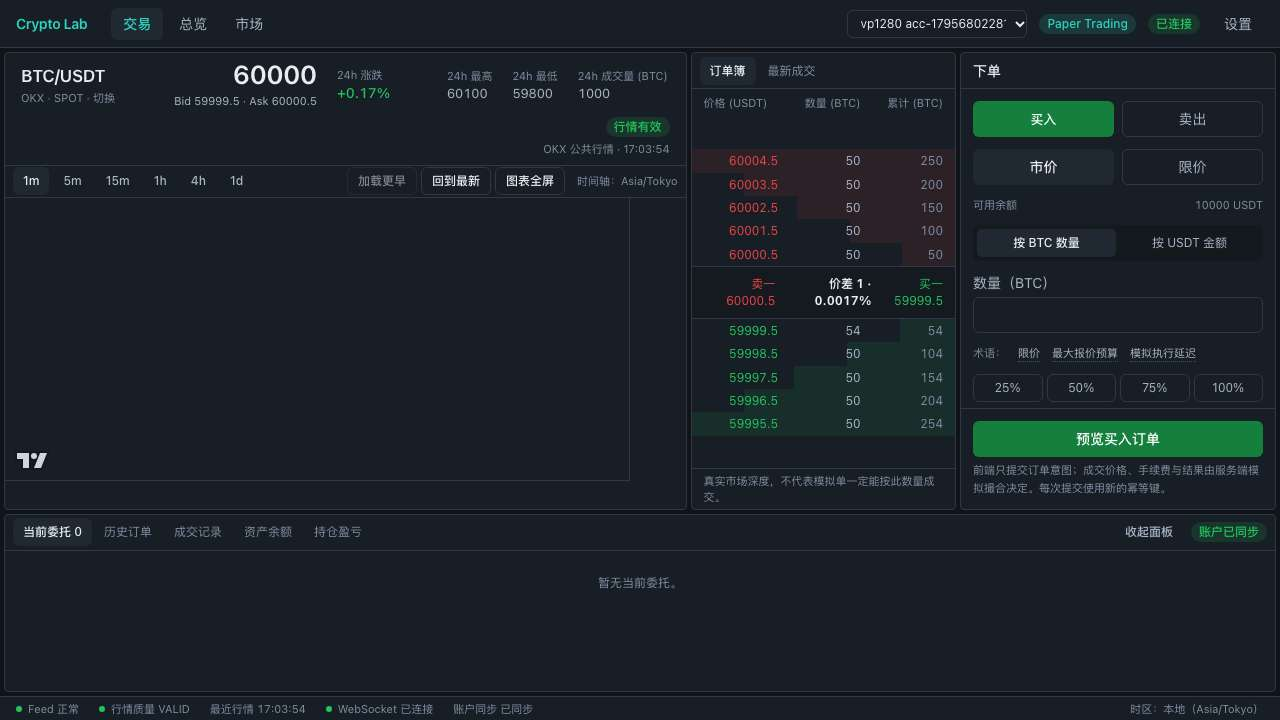
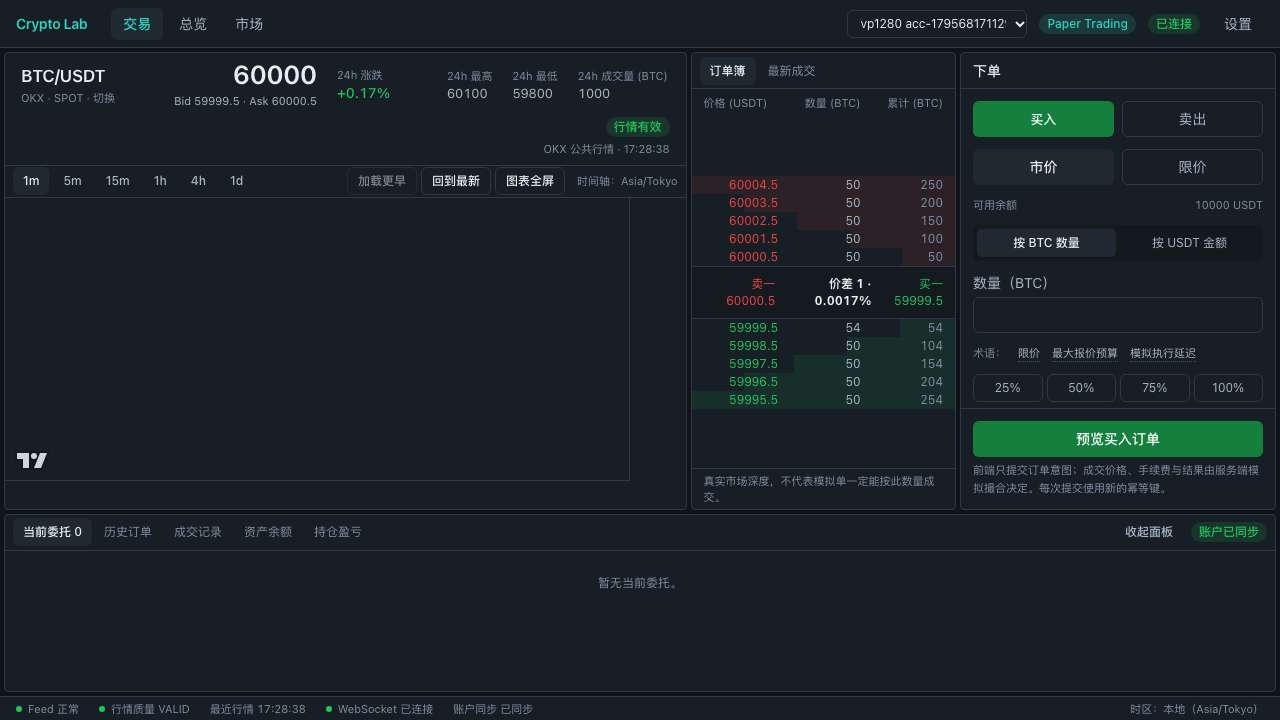
fix(frontend): use available order book height

diff --git a/frontend/src/features/market/MarketDepthPanel.tsx b/frontend/src/features/market/MarketDepthPanel.tsx
@@ -1,7 +1,7 @@
 import { memo, useEffect, useMemo, useRef, useState } from 'react'
 import { useMarketStore } from './marketStore'
 import { useInstrument } from './instrumentStore'
-import { buildBookView, type BookRow } from './orderBook'
+import { buildBookView, calculateVisibleDepth, type BookRow } from './orderBook'
 import { useOrderDraftStore } from '@/features/trading/orderDraftStore'
 import { EmptyState, Tabs } from '@/shared/ui'
 import { cn } from '@/shared/lib/utils'
@@ -30,7 +30,7 @@ function Row({
       disabled={disabled}
       onClick={() => pickPrice(row.price)}
       title={disabled ? '行情不可用，无法取价' : '点击填入限价（不会自动下单）'}
-      className="relative grid w-full grid-cols-3 gap-2 px-3 py-[3px] text-left text-[12px] hover:bg-elevated disabled:cursor-not-allowed disabled:opacity-60"
+      className="relative grid h-[18px] w-full grid-cols-3 items-center gap-2 px-3 text-left text-[12px] leading-4 hover:bg-elevated disabled:cursor-not-allowed disabled:opacity-60"
     >
       <span
         aria-hidden
@@ -59,12 +59,12 @@ const OrderBookView = memo(function OrderBookView() {
     const node = containerRef.current
     if (node === null || typeof ResizeObserver === 'undefined') return
     const observer = new ResizeObserver(([entry]) => {
-      const rowsPerSide = Math.max(3, Math.floor((entry.contentRect.height - 96) / 44))
+      const rowsPerSide = calculateVisibleDepth(entry.contentRect.height, !qualityOk)
       setVisibleDepth(rowsPerSide)
     })
     observer.observe(node)
     return () => observer.disconnect()
-  }, [])
+  }, [qualityOk])
   if (view === null || (view.asks.length === 0 && view.bids.length === 0)) {
     return <EmptyState message="暂无订单簿数据，等待行情。" />
   }

diff --git a/frontend/src/features/market/MarketDepthPanel.test.tsx b/frontend/src/features/market/MarketDepthPanel.test.tsx
@@ -4,6 +4,7 @@ import { beforeEach, describe, expect, test } from 'vitest'
 import { MarketDepthPanel } from './MarketDepthPanel'
 import { MAX_TRADES, useMarketStore } from './marketStore'
 import { useOrderDraftStore } from '@/features/trading/orderDraftStore'
+import { calculateVisibleDepth } from './orderBook'
 
 const INSTRUMENT = 'okx:SPOT:BTC/USDT'
 let seq = 0
@@ -38,6 +39,13 @@ beforeEach(() => {
 })
 
 describe('MarketDepthPanel', () => {
+  test('uses the available height for more real levels without exceeding the safety cap', () => {
+    expect(calculateVisibleDepth(450)).toBe(10)
+    expect(calculateVisibleDepth(720)).toBe(17)
+    expect(calculateVisibleDepth(720, true)).toBe(16)
+    expect(calculateVisibleDepth(10_000)).toBe(50)
+  })
+
   test('shows an honest empty state without data', () => {
     render(<MarketDepthPanel />)
     expect(screen.getByText(/暂无订单簿数据/)).toBeVisible()

diff --git a/frontend/src/features/market/orderBook.ts b/frontend/src/features/market/orderBook.ts
@@ -23,6 +23,16 @@ export interface BookView {
   spreadRate: string | null
 }
 
+const BOOK_FIXED_HEIGHT_PX = 88
+const BOOK_QUALITY_HEIGHT_PX = 25
+const BOOK_ROW_HEIGHT_PX = 18
+
+/** Split the available body height evenly between asks and bids. */
+export function calculateVisibleDepth(height: number, qualityWarning = false): number {
+  const fixedHeight = BOOK_FIXED_HEIGHT_PX + (qualityWarning ? BOOK_QUALITY_HEIGHT_PX : 0)
+  return Math.max(3, Math.min(50, Math.floor((height - fixedHeight) / (BOOK_ROW_HEIGHT_PX * 2))))
+}
+
 function withCumulative(levels: Level[], descending: boolean, depth: number): BookRow[] {
   const sorted = [...levels].sort((a, b) => {
     const diff = new Decimal(a.price).comparedTo(b.price)

diff --git a/docs/13-FRONTEND-ACCEPTANCE-REPORT.md b/docs/13-FRONTEND-ACCEPTANCE-REPORT.md
@@ -96,7 +96,7 @@
 
 - **全局与布局**：保留 Dark Theme、Teal 品牌色和桌面三栏；正文/金融数字/辅助文字提高可读性和对比度，数字使用 tabular numbers；分隔线默认弱化，交互时使用 Teal；Title 与 Favicon 更新为 Crypto Lab。
 - **行情与图表**：最新价提升至 26px，24h 指标、成交量单位、来源和质量状态分组显示；时间轴显式采用浏览器本地时区，验收环境显示 Asia/Tokyo；新增交易对切换入口、回到最新和图表全屏。REST 历史 Candle 与 WS Candle 继续共用 canonical instrument/interval key，未闭合 Candle 按 open time 更新；Ticker 与 Candle 不互相覆盖，因此短暂价格差异可由真实数据更新时间不同产生。个人成交标记和图表 autoSize 保留并复核。指标及绘图工具未纳入本轮。
-- **订单簿与下单**：订单簿按可用高度调整真实档位，增加累计数量及强化 Best Bid/Ask/Spread；未补造档位。市价买入可按 BTC 数量或 USDT 金额输入，参考换算使用 Decimal；最大报价预算仍显式覆盖手续费，不自动追加资金；参考价、参考金额、参考手续费缺失时显示 `--`，不伪造数据。延迟显示中文名称和实际毫秒数，提交按钮改为订单预览并保留强制确认 Dialog。
+- **订单簿与下单**：订单簿按可用高度调整真实档位，增加累计数量及强化 Best Bid/Ask/Spread；后续复查将行高压缩至 18px，并按正文实际高度动态显示每侧 3～50 档（约 450px 时每侧 10 档），行情不足时只显示实际档位，未补造档位。市价买入可按 BTC 数量或 USDT 金额输入，参考换算使用 Decimal；最大报价预算仍显式覆盖手续费，不自动追加资金；参考价、参考金额、参考手续费缺失时显示 `--`，不伪造数据。延迟显示中文名称和实际毫秒数，提交按钮改为订单预览并保留强制确认 Dialog。
 - **账户活动**：底部面板可折叠、恢复并持久化；当前委托 Tab 显示真实开放订单数；不新增未经后端确认的收益数据。
-- **验证**：Vitest **131 passed（26 files）**；Oxlint 0 error（保留 1 条既有 chart effect warning）；TypeScript/Vite build 通过，主包 748.39 kB（gzip 235.05 kB，既有单 chunk 警告）；Playwright Chromium **13 passed**，覆盖 1280×720、1440×900、1920×1080、2560×1440，无页面溢出且关键交易控件可命中；Account Activity 折叠状态经刷新保持；20 秒合成实时行情下 Long Task 0、堆增长 0.81 MB。Docker Compose 重新构建并通过三服务健康检查。
+- **验证**：Vitest **132 passed（26 files）**；Oxlint 0 error（保留 1 条既有 chart effect warning）；TypeScript/Vite build 通过，主包约 748.5 kB（gzip 235.1 kB，既有单 chunk 警告）；Playwright Chromium **13 passed**，覆盖 1280×720、1440×900、1920×1080、2560×1440，无页面溢出且关键交易控件可命中；Account Activity 折叠状态经刷新保持；20 秒合成实时行情下 Long Task 0、堆增长 0.81 MB。Docker Compose 重新构建并通过三服务健康检查。
 - **截图**：`docs/screenshots/acceptance/trading-{1280x720,1440x900,1920x1080,2560x1440}.jpg`。截图来自真实 Chromium 页面和完整前后端链路，但行情为确定性的 SYNTHETIC 测试数据，仅作为布局与交互证据；不将其描述为真实 OKX 市场快照。
